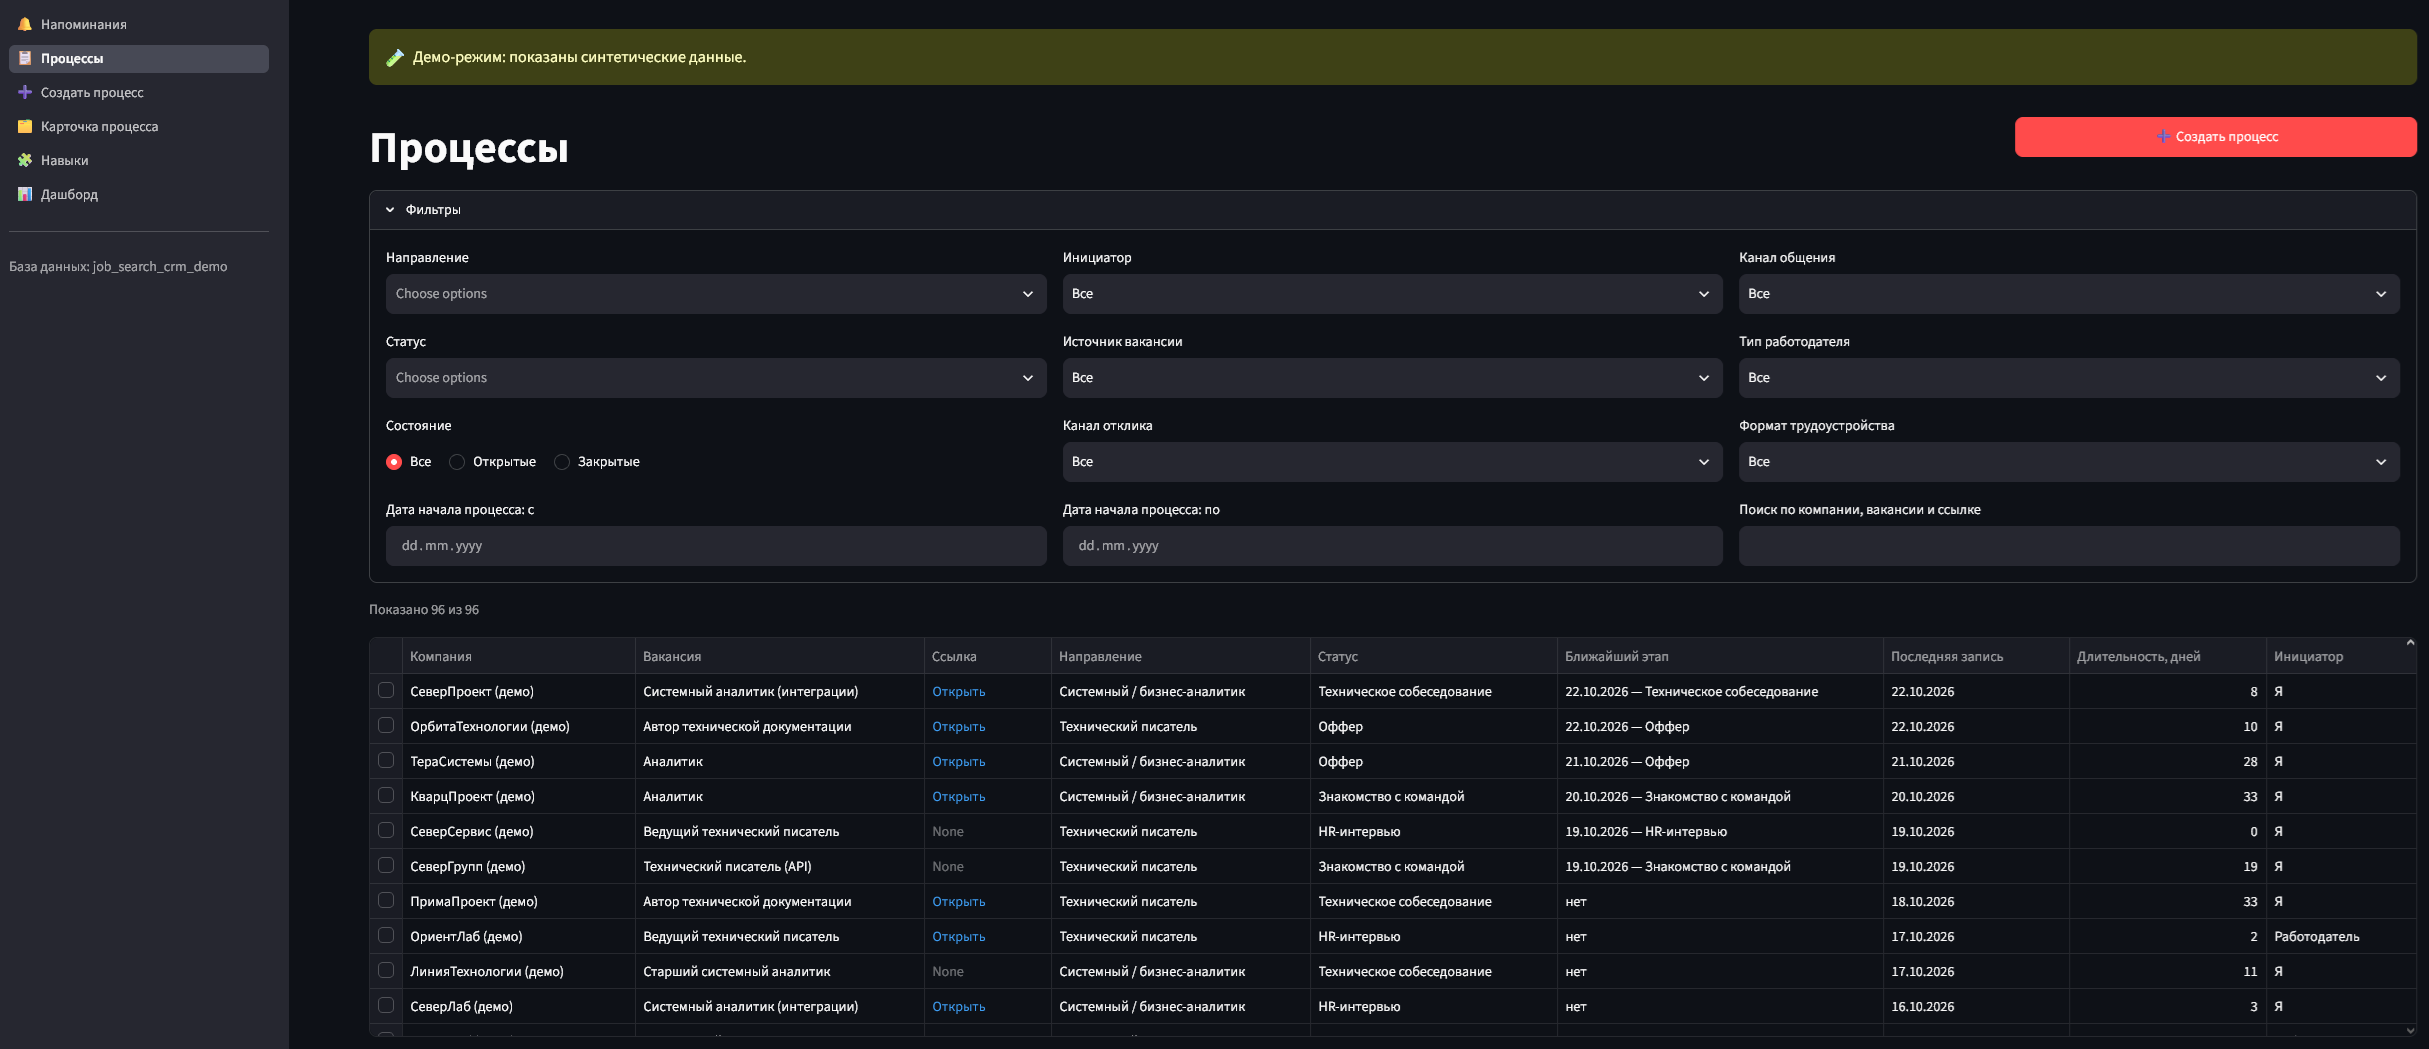
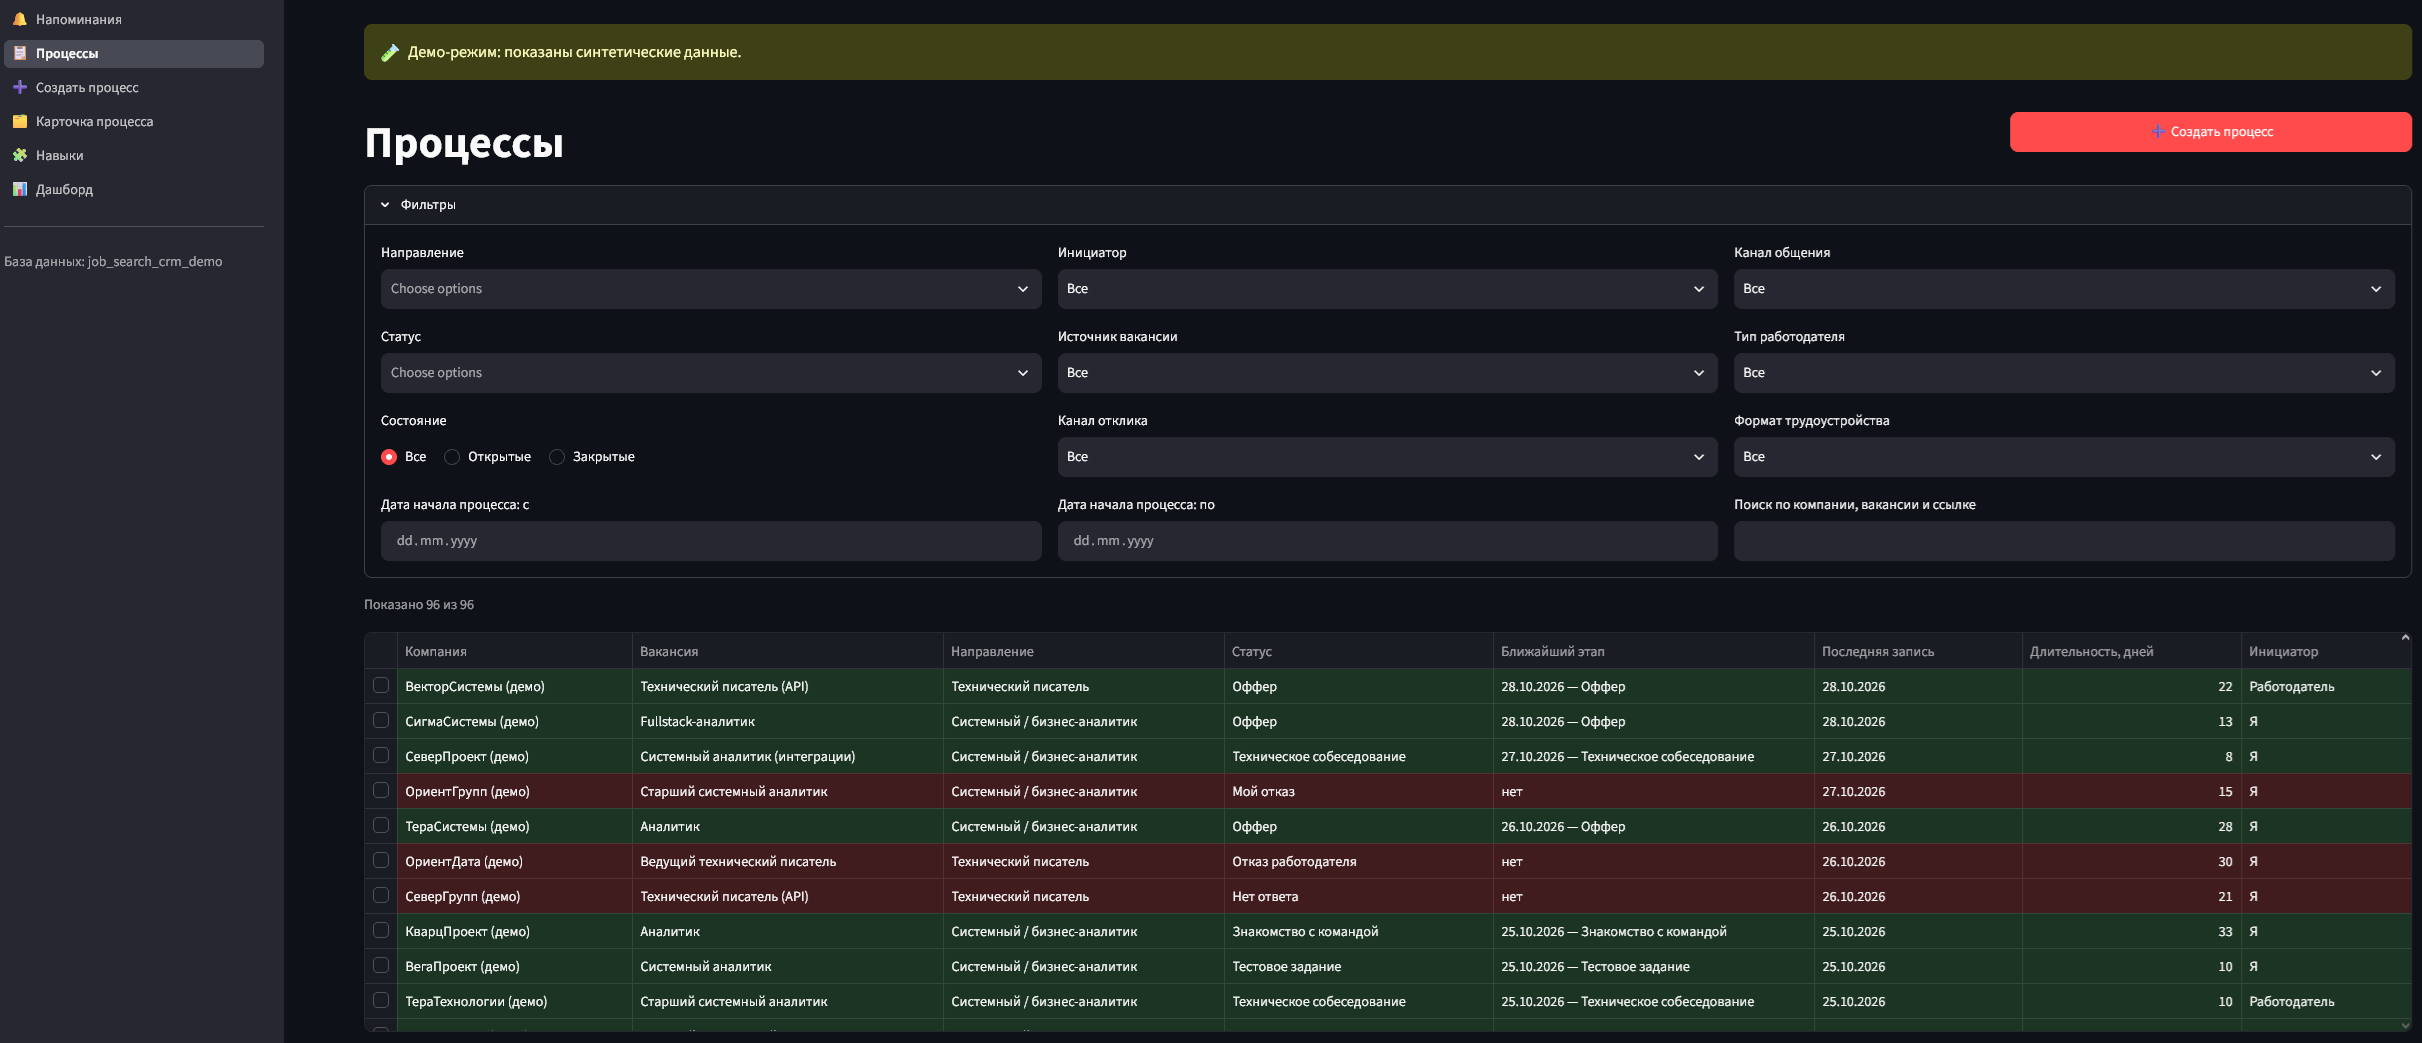
обновил скрин в РИДМИ

diff --git a/projects/06-job-search-crm/app/views/processes.py b/projects/06-job-search-crm/app/views/processes.py
@@ -1,6 +1,7 @@
 """Страница «Процессы» (US-02, US-03): список процессов с фильтрами и поиском."""
 from datetime import date
 
+import pandas as pd
 import streamlit as st
 
 from app import data, formatting as fmt, ui
@@ -82,20 +83,39 @@ selected_id = None
 if not rows:
     st.info("Процессов нет.")
 else:
-    table = [{"Компания": r["company_name"], "Вакансия": r["vacancy_title"], "Ссылка": r["vacancy_url"],
-              "Направление": fmt.direction_label(r["direction_code"]), "Статус": r["status_name"],
-              "Ближайший этап": fmt.format_next_stage(r["next_date"], r["next_name"]),
-              "Последняя запись": r["last_record_date"],
-              "Длительность, дней": r["duration_days"],
-              "Инициатор": fmt.initiator_label(r["initiator"])}
-             for r in rows]
+    df = pd.DataFrame([
+        {"Компания": r["company_name"], "Вакансия": r["vacancy_title"],
+         "Направление": fmt.direction_label(r["direction_code"]), "Статус": r["status_name"],
+         "Ближайший этап": fmt.format_next_stage(r["next_date"], r["next_name"]),
+         "Последняя запись": fmt.format_date(r["last_record_date"]),
+         "Длительность, дней": r["duration_days"],
+         "Инициатор": fmt.initiator_label(r["initiator"])}
+        for r in rows
+    ])
+    row_kinds = [r["status_kind"] for r in rows]
+
+    def _highlight_process_row(row):
+        # Открытые процессы — мягкий зелёный, закрытые — мягкий красный.
+        # Полупрозрачность, чтобы в тёмной и светлой темах текст читался.
+        color = ("rgba(76, 175, 80, 0.22)" if row_kinds[row.name] == "stage"
+                 else "rgba(244, 67, 54, 0.22)")
+        return [f"background-color: {color}"] * len(row)
+
     event = st.dataframe(
-        table, key="processes_table", hide_index=True, width="stretch",
-        column_config={"Ссылка": st.column_config.LinkColumn(display_text="Открыть"),
-                       "Последняя запись": st.column_config.DateColumn(format="DD.MM.YYYY")},
+        df.style.apply(_highlight_process_row, axis=1),
+        key="processes_table", hide_index=True, width="stretch",
         on_select="rerun", selection_mode="single-row")
+
     chosen = event["selection"]["rows"]
     if chosen:
-        selected_id = rows[chosen[0]]["id"]
+        selected_row = rows[chosen[0]]
+        selected_id = selected_row["id"]
+        # Ссылка на вакансию — под таблицей, когда строка выбрана.
+        if selected_row["vacancy_url"]:
+            st.markdown(
+                f"**Ссылка на вакансию:** [{selected_row['vacancy_url']}]({selected_row['vacancy_url']})"
+            )
+        else:
+            st.caption("Ссылка на вакансию не указана.")
 
 ui.open_card_button(selected_id)
